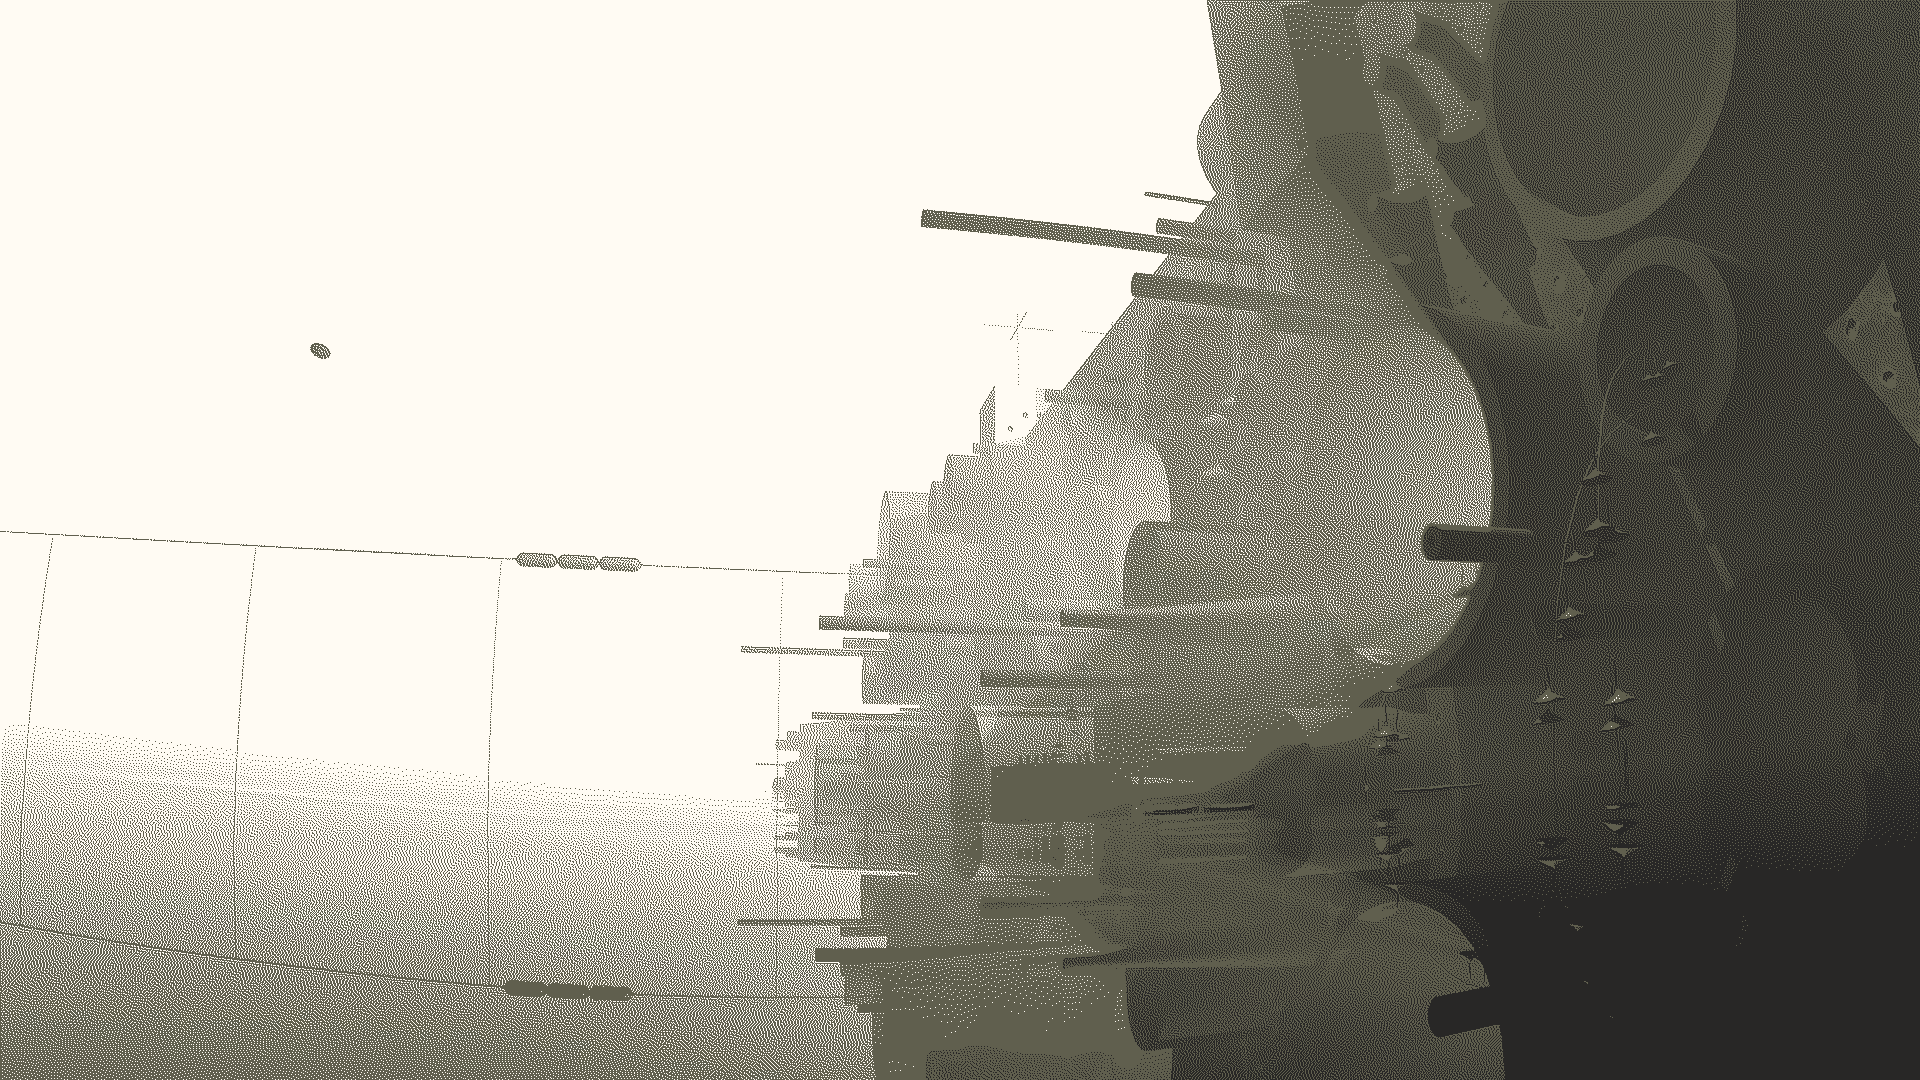
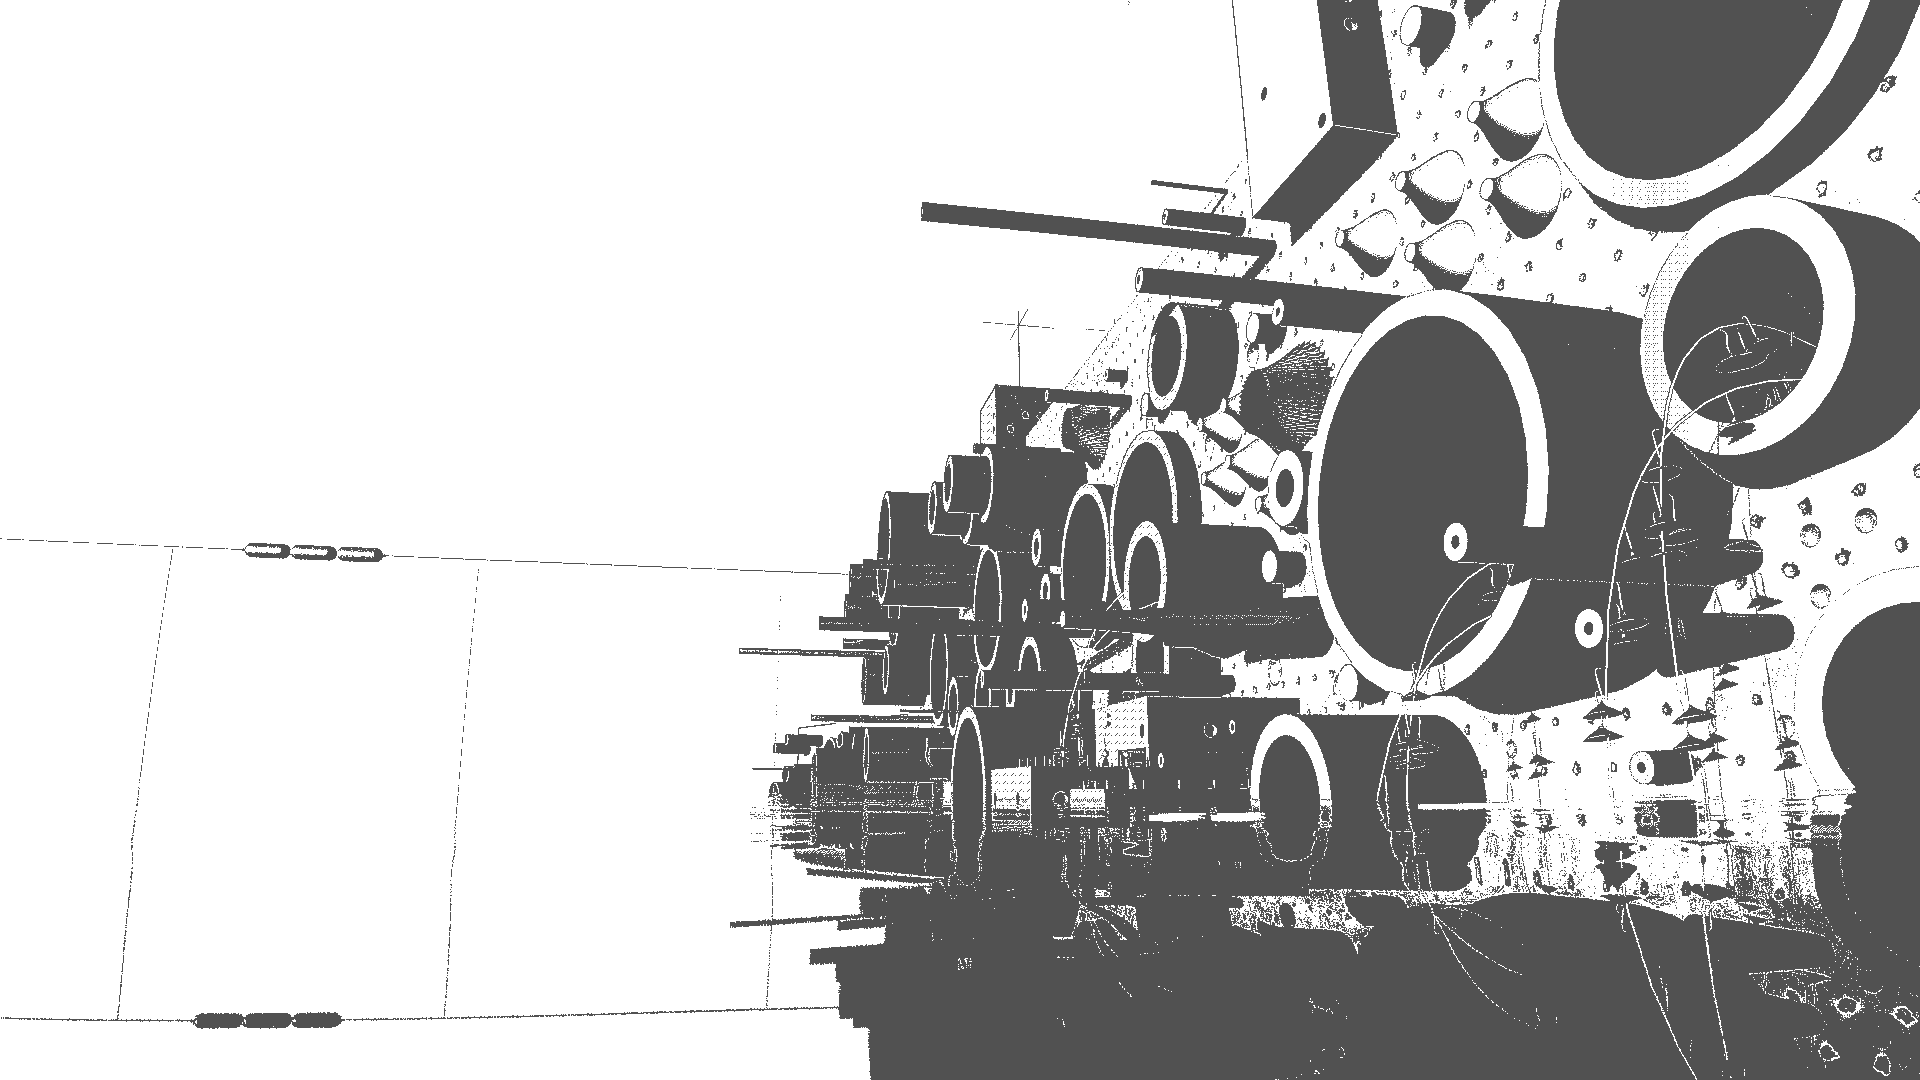
update

diff --git a/index.html b/index.html
@@ -35,7 +35,7 @@
 
 				div {
 
-					background-image: url('../lexicon/media/images/268.png');
+					background-image: url('../lexicon/media/images/305.png');
 					background-size: cover;
 					background-position: center;
 
@@ -43,7 +43,7 @@
 
 			</style>
 
-			<p>> 2019.12 Earth, Crux Discharge, & Pluslorem<style type="text/css">#banner-01 {color: #cccccc;}</style></p>
+			<p>> 2020.05 Soen Circulatory<style type="text/css">#banner-01 {color: #cccccc;}</style></p>
 
 			<hr>
 
